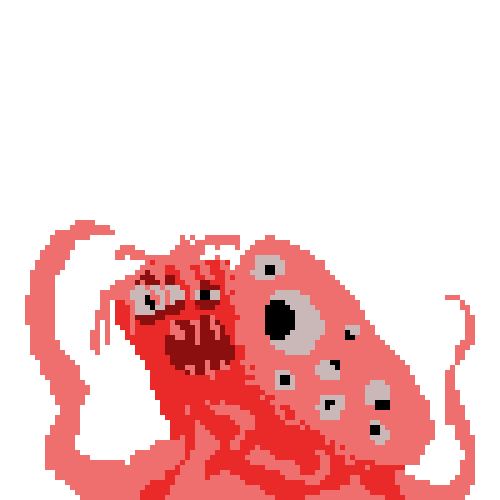
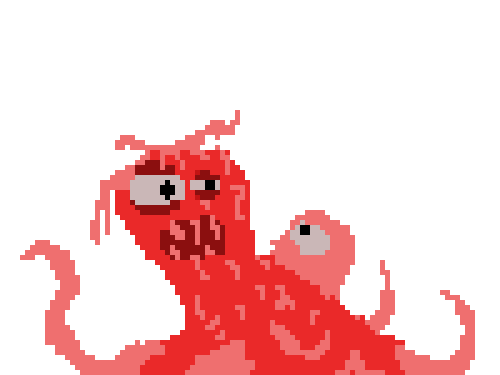
Use checkboxes to manipulate the creature.

diff --git a/app/checkbox.js b/app/checkbox.js
@@ -7,7 +7,8 @@ var CheckboxState;
     CheckboxState[CheckboxState["NEGATIVE"] = 2] = "NEGATIVE";
 })(CheckboxState || (CheckboxState = {}));
 var CheckboxBinding = /** @class */ (function () {
-    function CheckboxBinding() {
+    function CheckboxBinding(title) {
+        this.title = title;
         this.state = CheckboxState.NEUTRAL;
         this.setImage();
     }
@@ -34,7 +35,14 @@ var CheckboxBinding = /** @class */ (function () {
             this.image = "~/images/checkbox/Negative.png";
         }
     };
+    CheckboxBinding.prototype.isChecked = function () {
+        return this.state === CheckboxState.POSITIVE;
+    };
+    CheckboxBinding.prototype.reset = function () {
+        this.state = CheckboxState.NEUTRAL;
+        this.image = "~/images/checkbox/Neutral.png";
+    };
     return CheckboxBinding;
 }());
 exports.CheckboxBinding = CheckboxBinding;
[2 lines of base64/hex data omitted]

diff --git a/app/habbajet.js b/app/habbajet.js
@@ -1,19 +1,48 @@
 "use strict";
 Object.defineProperty(exports, "__esModule", { value: true });
+var checkbox_1 = require("./checkbox");
+var _ = require("lodash");
 var HabbajetBinding = /** @class */ (function () {
     function HabbajetBinding() {
         this.stateIndex = 0;
         this.frameIndex = 0;
-        this.image = "~/images/Habbajet" + this.stateIndex + "_" + this.frameIndex + ".png";
+        this.setImage();
+        this.checkboxes = [
+            new checkbox_1.CheckboxBinding("Sunday"),
+            new checkbox_1.CheckboxBinding("Monday"),
+            new checkbox_1.CheckboxBinding("Tuesday"),
+            new checkbox_1.CheckboxBinding("Wednesday"),
+            new checkbox_1.CheckboxBinding("Thursday"),
+            new checkbox_1.CheckboxBinding("Friday"),
+            new checkbox_1.CheckboxBinding("Saturday")
+        ];
     }
-    HabbajetBinding.prototype.evolveState = function () {
-        this.stateIndex < 5 ? this.stateIndex++ : this.stateIndex = 0;
-        this.image = "~/images/Habbajet" + this.stateIndex + "_" + this.frameIndex + ".png";
+    HabbajetBinding.prototype.checkboxStateUpdate = function (index) {
+        this.checkboxes[index].cycleStates();
+        var newState = 0;
+        _.forEach(this.checkboxes, function (c) {
+            if (c.isChecked()) {
+                newState++;
+            }
+        });
+        this.setState(newState);
     };
-    HabbajetBinding.prototype.getImage = function () {
-        return this.image;
+    HabbajetBinding.prototype.setImage = function () {
+        this.image = "~/images/habbajet" + this.stateIndex + "_" + this.frameIndex + ".png";
+    };
+    HabbajetBinding.prototype.setState = function (newState) {
+        if (newState < 0 || newState > 6) {
+            this.stateIndex = 0;
+            _.forEach(this.checkboxes, function (c) {
+                c.reset();
+            });
+        }
+        else {
+            this.stateIndex = newState;
+        }
+        this.setImage();
     };
     return HabbajetBinding;
 }());
 exports.HabbajetBinding = HabbajetBinding;
[2 lines of base64/hex data omitted]

diff --git a/app/app.component.js b/app/app.component.js
@@ -2,36 +2,20 @@
 Object.defineProperty(exports, "__esModule", { value: true });
 var core_1 = require("@angular/core");
 var habbajet_1 = require("./habbajet");
-var checkbox_1 = require("./checkbox");
 var AppComponent = /** @class */ (function () {
     function AppComponent() {
         this.habbajet = new habbajet_1.HabbajetBinding();
-        this.currentImage = this.habbajet.getImage();
-        this.checkboxes = [
-            new checkbox_1.CheckboxBinding(),
-            new checkbox_1.CheckboxBinding(),
-            new checkbox_1.CheckboxBinding(),
-            new checkbox_1.CheckboxBinding(),
-            new checkbox_1.CheckboxBinding(),
-            new checkbox_1.CheckboxBinding(),
-            new checkbox_1.CheckboxBinding()
-        ];
     }
     AppComponent.prototype.onCheckboxTap = function (args) {
-        this.checkboxes[args.index].cycleStates();
-    };
-    AppComponent.prototype.onEvolveTap = function () {
-        this.habbajet.evolveState();
-        this.currentImage = this.habbajet.getImage();
+        this.habbajet.checkboxStateUpdate(args.index);
     };
     AppComponent = __decorate([
         core_1.Component({
             selector: "my-app",
-            template: "<ActionBar title=\"Habbajet\" class=\"action-bar\"></ActionBar>\n\n  <StackLayout>\n      <Image [src]=\"currentImage\"></Image>\n      <Button text=\"EVOLVE\" (tap)=\"onEvolveTap()\"></Button>\n      <ListView [items]=\"checkboxes\" (itemTap)=\"onCheckboxTap($event)\">\n      <ng-template let-item=\"item\">\n          <StackLayout>\n              <Image [src]=\"image\"></Image>\n          </StackLayout>\n      </ng-template>\n      </ListView>\n  </StackLayout>"
-            // templateUrl: "./habbajet.xml",
+            templateUrl: "./habbajet.html",
         })
     ], AppComponent);
     return AppComponent;
 }());
 exports.AppComponent = AppComponent;
[2 lines of base64/hex data omitted]

diff --git a/app/habbajet.ts b/app/habbajet.ts
@@ -1,20 +1,54 @@
+import { CheckboxBinding } from "./checkbox";
+import * as _ from 'lodash';
+
 export class HabbajetBinding {
     private stateIndex: number;
     private frameIndex: number;
-    private image: string;
+    public image: string;
+    public checkboxes: CheckboxBinding[];
+    
   
     constructor() {
       this.stateIndex = 0;
       this.frameIndex = 0;
-      this.image = "~/images/Habbajet" + this.stateIndex + "_" + this.frameIndex + ".png";
-    }
-  
-    evolveState() {
-      this.stateIndex < 5 ? this.stateIndex++ : this.stateIndex = 0;
-      this.image = "~/images/Habbajet" + this.stateIndex + "_" + this.frameIndex + ".png";
+      this.setImage();
+      this.checkboxes = [
+        new CheckboxBinding("Sunday"),
+        new CheckboxBinding("Monday"),
+        new CheckboxBinding("Tuesday"),
+        new CheckboxBinding("Wednesday"),
+        new CheckboxBinding("Thursday"),
+        new CheckboxBinding("Friday"),
+        new CheckboxBinding("Saturday")
+      ];
     }
 
-    getImage(): string {
-        return this.image;
+    checkboxStateUpdate(index: number) {
+      this.checkboxes[index].cycleStates();
+
+      let newState = 0;
+      _.forEach(this.checkboxes, (c) => {
+        if(c.isChecked()) {
+          newState++;
+        }
+      });
+
+      this.setState(newState);
+    }
+
+    setImage() {
+      this.image = "~/images/habbajet" + this.stateIndex + "_" + this.frameIndex + ".png";
+    }
+
+    setState(newState: number) {
+      if(newState < 0 || newState > 6) {
+        this.stateIndex = 0;
+        _.forEach(this.checkboxes, (c) => {
+          c.reset();
+        });
+      } else {
+        this.stateIndex = newState;
+      }
+      this.setImage();
     }
   }

diff --git a/app/app.component.ts b/app/app.component.ts
@@ -1,44 +1,18 @@
 import { Component, NgModule } from "@angular/core";
 import { HabbajetBinding } from "./habbajet";
 import { CheckboxBinding } from "./checkbox";
+import * as _ from 'lodash';
+
 
 @Component({
   selector: "my-app",
-  template: `<ActionBar title="Habbajet" class="action-bar"></ActionBar>
-
-  <StackLayout>
-      <Image [src]="currentImage"></Image>
-      <Button text="EVOLVE" (tap)="onEvolveTap()"></Button>
-      <ListView [items]="checkboxes" (itemTap)="onCheckboxTap($event)">
-      <ng-template let-item="item">
-          <StackLayout>
-              <Image [src]="image"></Image>
-          </StackLayout>
-      </ng-template>
-      </ListView>
-  </StackLayout>`
-  // templateUrl: "./habbajet.xml",
+  templateUrl: "./habbajet.html",
 })
+
 export class AppComponent {
   habbajet = new HabbajetBinding();
-  currentImage = this.habbajet.getImage();
-  checkboxes: CheckboxBinding[] = [
-    new CheckboxBinding(),
-    new CheckboxBinding(),
-    new CheckboxBinding(),
-    new CheckboxBinding(),
-    new CheckboxBinding(),
-    new CheckboxBinding(),
-    new CheckboxBinding()
-  ];
 
   onCheckboxTap(args) {
-    this.checkboxes[args.index].cycleStates();
-  }
-
-
-  onEvolveTap() {
-    this.habbajet.evolveState();
-    this.currentImage = this.habbajet.getImage();
+    this.habbajet.checkboxStateUpdate(args.index);
   }
 }

diff --git a/app/checkbox.ts b/app/checkbox.ts
@@ -7,8 +7,10 @@ enum CheckboxState {
 export class CheckboxBinding {
     public state: CheckboxState;
     public image: String;
+    public title: String;
 
-    constructor() {
+    constructor(title: string) {
+        this.title = title;
         this.state = CheckboxState.NEUTRAL;
         this.setImage();
     }
@@ -32,5 +34,14 @@ export class CheckboxBinding {
         } else if (this.state === CheckboxState.NEGATIVE) {
             this.image = "~/images/checkbox/Negative.png";
         }
+    }
+
+    isChecked() {
+        return this.state === CheckboxState.POSITIVE;
+    }
+
+    reset() {
+        this.state = CheckboxState.NEUTRAL;
+        this.image = "~/images/checkbox/Neutral.png";
     }
 }

diff --git a/app/app.css b/app/app.css
@@ -1,1 +1,40 @@
 @import "nativescript-theme-core/css/core.light.css";
+
+action-bar {
+    background-color: rgb(100, 5, 5);
+    color: white;
+    font-weight: bold;
+}
+
+.checkboxList {
+    margin: 10;
+    padding: 5;
+    background-color: rgb(221, 221, 221);
+    width: 170;
+    border-radius: 5;
+    color: black;
+    separator-color: transparent;
+}
+
+.checkbox {
+    width: 30;
+    height: 30;
+    float: right;
+}
+
+.checkboxTitle {
+    width: 120;
+    padding: 3;
+    padding-right: 6;
+    font-size: 20;
+    font-weight: bold;
+    vertical-align: center;
+    text-align: right;
+}
+
+.creature {
+    margin: 5;
+    border-color: black;
+    border-width: 3;
+    border-radius: 3;
+}

diff --git a/app/habbajet.html b/app/habbajet.html
@@ -1,0 +1,16 @@
+<ActionBar title="Habbajet" class="action-bar"></ActionBar>
+
+<StackLayout>
+    
+    <Image [src]="habbajet.image" class="creature"></Image>
+    
+    <ListView [items]="habbajet.checkboxes" (itemTap)="onCheckboxTap($event)" class="checkboxList">
+    <ng-template let-item="item">
+        <StackLayout orientation="horizontal">
+            <Label [text]="item.title" class="checkboxTitle"></Label>
+            <Image class="checkbox" [src]="item.image"></Image>
+        </StackLayout>
+    </ng-template>
+    </ListView>
+
+</StackLayout>
